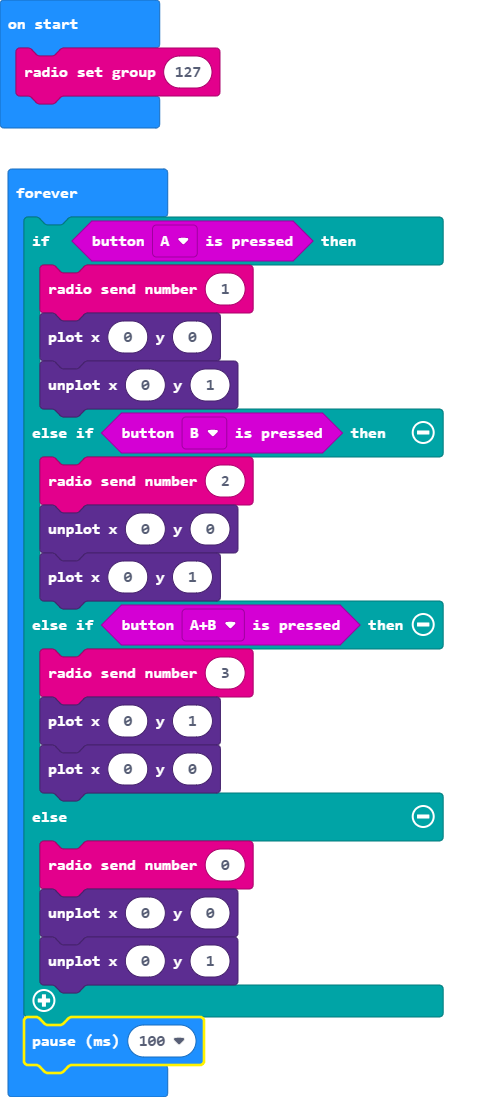
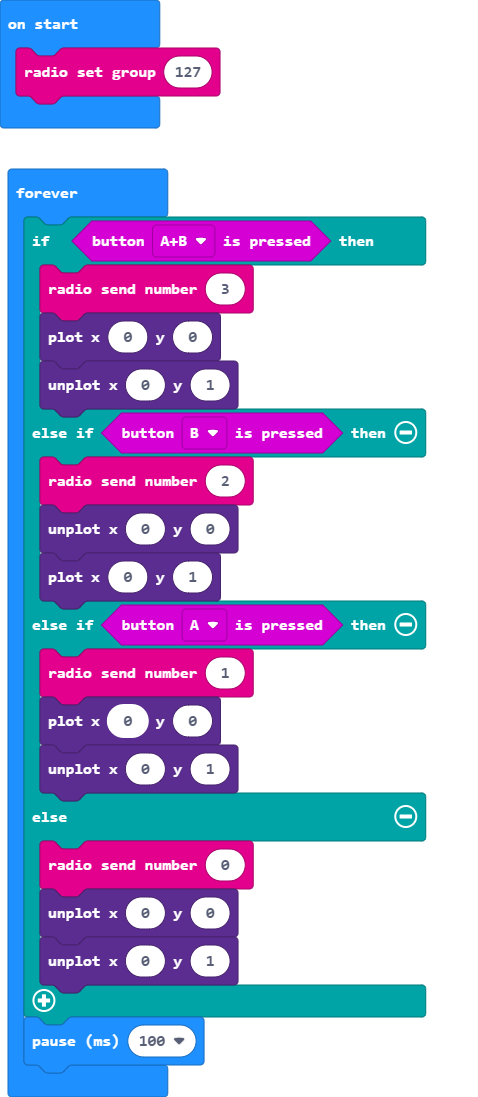
buttons read in correct priority

diff --git a/main.ts b/main.ts
@@ -1,17 +1,17 @@
 radio.setGroup(127)
 basic.forever(function () {
-    if (input.buttonIsPressed(Button.A)) {
-        radio.sendNumber(1)
+    if (input.buttonIsPressed(Button.AB)) {
+        radio.sendNumber(3)
         led.plot(0, 0)
         led.unplot(0, 1)
     } else if (input.buttonIsPressed(Button.B)) {
         radio.sendNumber(2)
         led.unplot(0, 0)
         led.plot(0, 1)
-    } else if (input.buttonIsPressed(Button.AB)) {
-        radio.sendNumber(3)
-        led.plot(0, 1)
+    } else if (input.buttonIsPressed(Button.A)) {
+        radio.sendNumber(1)
         led.plot(0, 0)
+        led.unplot(0, 1)
     } else {
         radio.sendNumber(0)
         led.unplot(0, 0)
